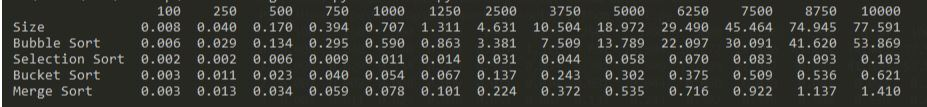
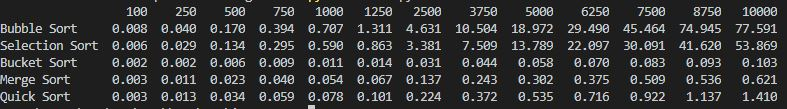
edited table

diff --git a/analysis.py b/analysis.py
@@ -60,6 +60,6 @@ def genTable():
     # Read data from csv file
     df = pd.read_csv("res/results.csv")
     # Naming rows by index
-    df.rename(index={0:"Size",1:"Bubble Sort",2:"Selection Sort",3:"Bucket Sort", 4:"Merge Sort", 5:"Quick Sort"}, inplace=True)
+    df.rename(index={0:"Bubble Sort",1:"Selection Sort",2:"Bucket Sort",3:"Merge Sort", 4:"Quick Sort"}, inplace=True)
     # Outputs dataframe to console
     print(df)
